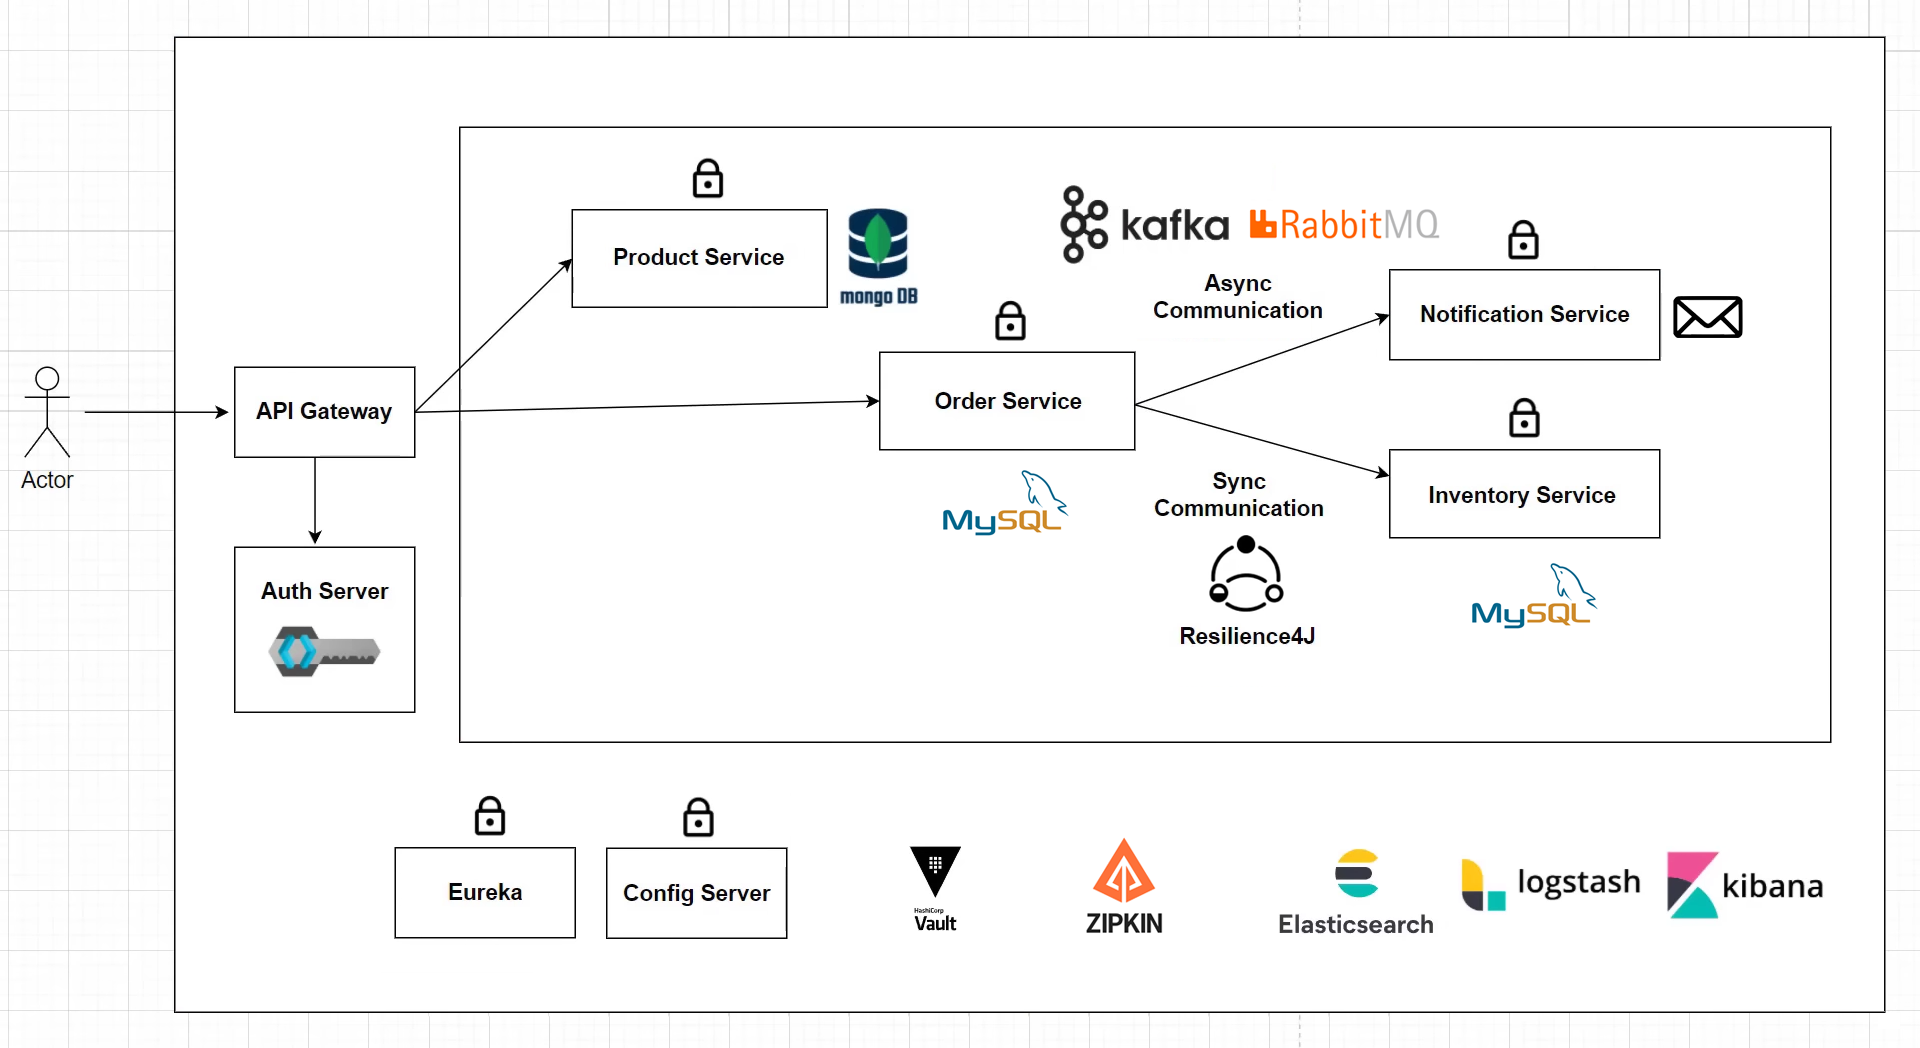
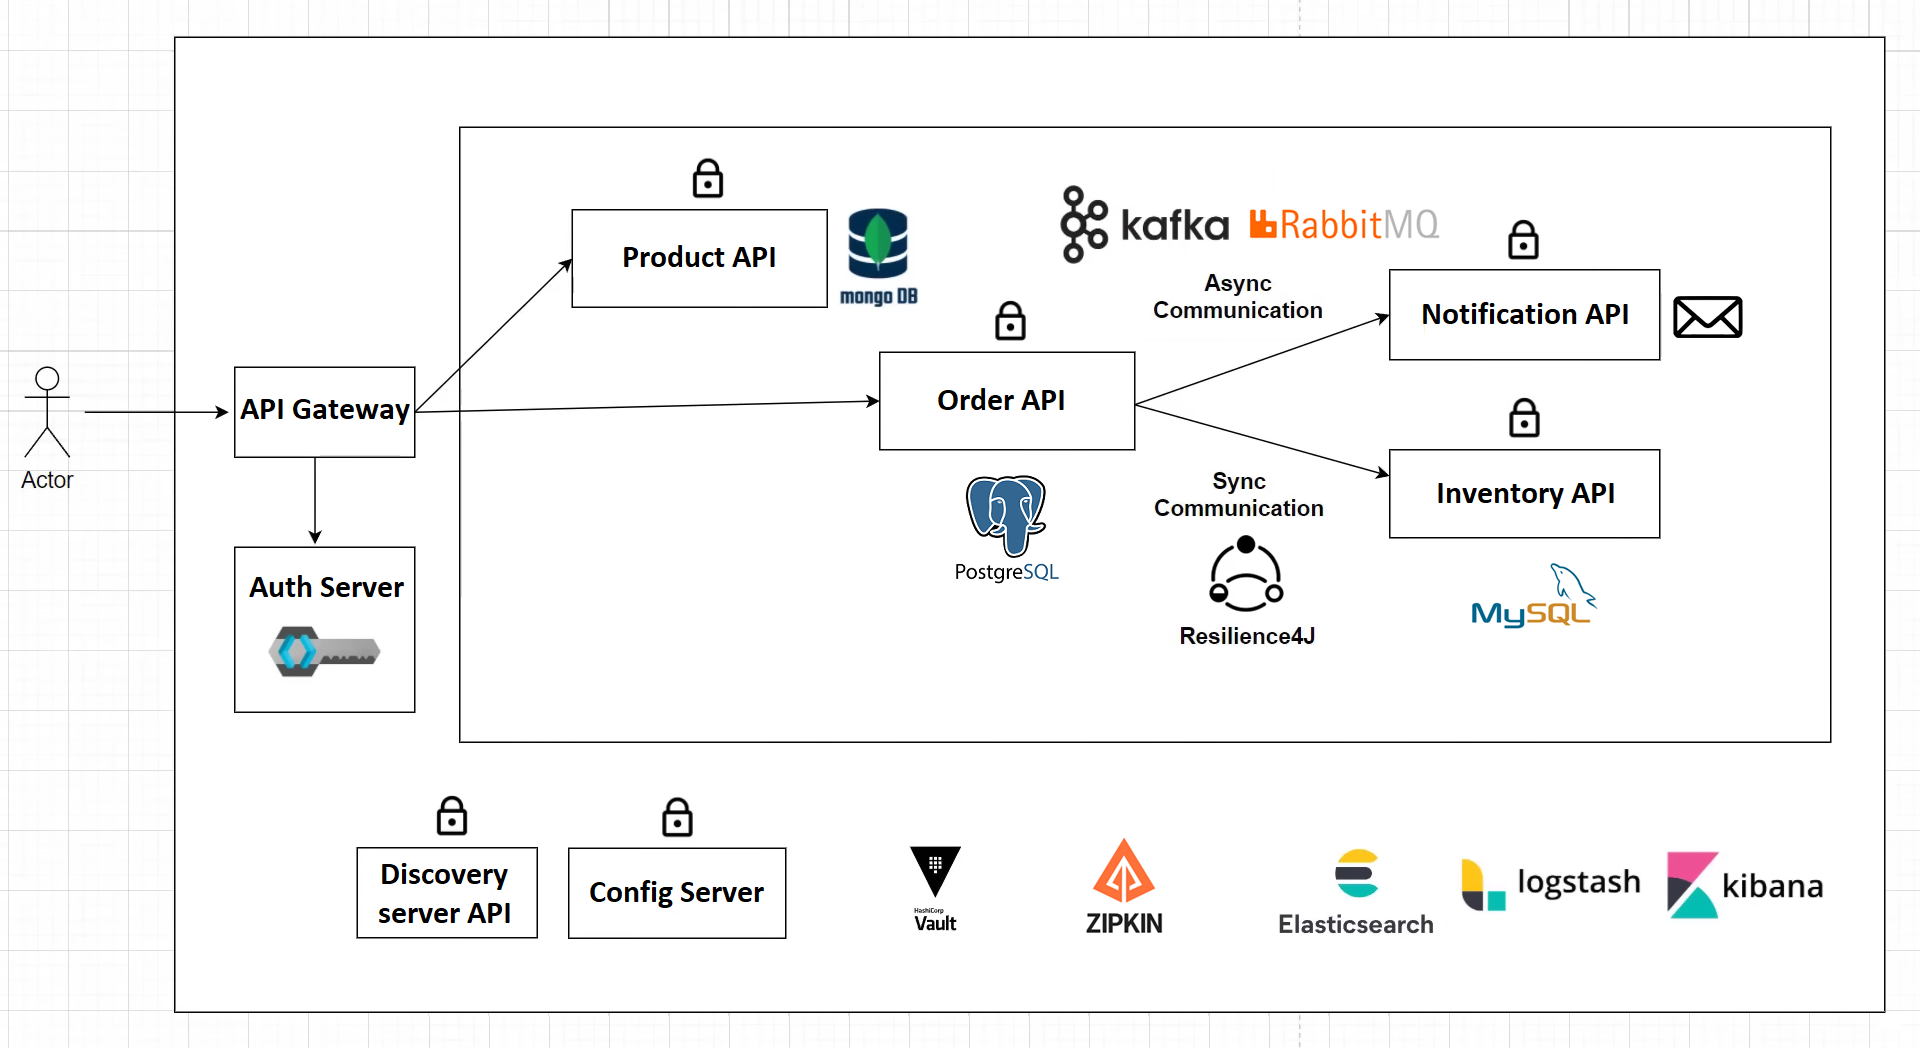
readme

diff --git a/README.md b/README.md
@@ -27,17 +27,25 @@ Utilized log analysis and monitoring tools such as Elasticsearch, Logstash and K
 
 # Microservices 📋
 
-1. Product API for creating and viewing products. It acts as a product catalog and it communicates with a MongoDB database.
-2. Order API for ordering products. It communicates with a MySQL database.
-3. Inventory API for checking if product is in stock or not. Also communicates with a MySQL database.
-4. Notification API sends notifications after the order is places. It is stateless and does not have a database.
+1. **Product API** for creating and viewing products. It acts as a product catalog and it communicates with a MongoDB database.
+2. **Order API** for ordering products. It communicates with a MySQL database.
+3. **Inventory API** for checking if product is in stock or not. Also communicates with a MySQL database.
+4. **Notification API** sends notifications after the order is places. It is stateless and does not have a database.
+5. **API Gateway** provides a single entry point for users to communicate with the microservices. It acts as a gatekeeper for sending requests from users to different services. This way, users do not have to directly communicate with the host names or IP addresses of the microservices.
 
 - The Order API communicates with the Inventory API and Product API synchronously to check the availability of products before placing an order. It also communicates with the Notification API asynchronously to send notifications after a successful order placement.
-- API Gateway provides a single entry point for users to communicate with the microservices. It acts as a gatekeeper for sending requests from users to different services. This way, users do not have to directly communicate with the host names or IP addresses of the microservices.
 
 # Solution Architecture 🔍
 
 ![image](https://github.com/zoltanvin/mini-shopify/blob/main/assets/high_level_architecture.png)
+
+
+<details>
+  <summary>More detail</summary>
+
+  ![image](https://github.com/zoltanvin/mini-shopify/blob/main/assets/logical_architecture.png)
+
+</details>
 
 # Clone And Use 🔨
 
@@ -66,6 +74,32 @@ To run the application without Docker:
 - **JPA:** for implementing the Object Relational Mapping in the microservices, allowing Java applications to interact with databases and perform CRUD.
 - **Docker:** for containerization of microservices, making it easy to package and deploy the microservices across different environments.
 - **Grafana:** for monitoring and logging the microservices, providing insights into the performance and health of the microservices.
+
+<details>
+  <summary>Notes for myself</summary>
+
+docker pull postgres
+docker run --name order-api -p 5432:5432 -e POSTGRES_USER=root -e POSTGRES_PASSWORD=admin -d postgres
+
+docker pull mysql
+docker run --name inventory-api -p 3306:3306 -e MYSQL_ROOT_PASSWORD=pwd -e MYSQL_USER=admin -d mysql
+
+docker exec -it inventory-api  mysql -uroot -p
+CREATE USER 'admin'@'172.17.0.1' IDENTIFIED BY 'pwd';
+GRANT ALL PRIVILEGES ON *.* TO 'admin'@'172.17.0.1' WITH GRANT OPTION;
+flush privileges;
+exit
+
+docker pull container-registry.oracle.com/database/free
+docker run -d --name=inv-api -p 1521:1521 -e ORACLE_SID=oracle -e ORACLE_PWD=pwd container-registry.oracle.com/database/free
+-p 5500:5500
+
+docker pull mcr.microsoft.com/mssql/server
+docker run --name inv -e "ACCEPT_EULA=Y" -e "SA_PASSWORD=passworD!" -e "MSSQL_PID=Developer" -p 1433:1433 -d mcr.microsoft.com/mssql/server
+docker run --name inv -e "ACCEPT_EULA=Y" -e "SA_PASSWORD=passworD!" -e "MSSQL_PID=Developer" -e "MSSQL_USER=user" -e "MSSQL_PASSWORD=passworD!" -p 1433:1433 -d mcr.microsoft.com/mssql/server
+docker exec -it inv /opt/mssql-tools/bin/sqlcmd -S localhost -U SA -P passworD!
+GRANT CONTROL SERVER TO user
+</details>
 
 </br>
 ⭐ Star me on GitHub — it helps!
